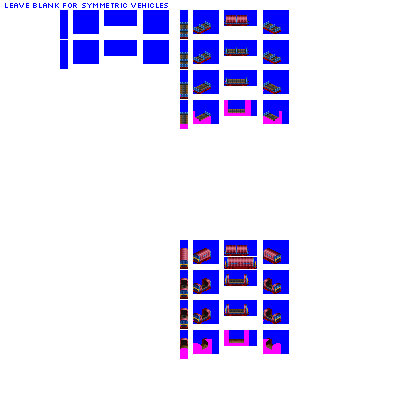
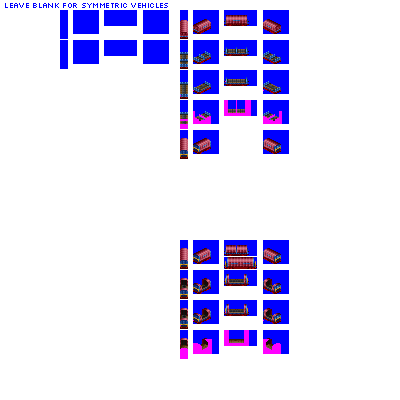
Change: add gen 4 tarpailin coil cars

diff --git a/src/vehicles/pony/coil_cars_tarpaulin_pony.py b/src/vehicles/pony/coil_cars_tarpaulin_pony.py
@@ -9,10 +9,24 @@ def main(**kwargs):
 
     model_def = ModelDef(
         schema_name="CoilCarTarpaulin",
+        base_numeric_id=17070,
+        gen=4,
+        subtype="A",
+        sprites_complete=True,
+    )
+
+    model_def.add_unit_def(
+        unit_cls_name="FreightCarUnit", chassis="2_axle_filled_16px"
+    )
+
+    result.append(model_def)
+
+    model_def = ModelDef(
+        schema_name="CoilCarTarpaulin",
         base_numeric_id=16960,
         gen=4,
         subtype="B",
-        sprites_complete=False,
+        sprites_complete=True,
     )
 
     model_def.add_unit_def(
@@ -26,7 +40,7 @@ def main(**kwargs):
         base_numeric_id=17000,
         gen=4,
         subtype="C",
-        sprites_complete=False,
+        sprites_complete=True,
     )
 
     model_def.add_unit_def(
